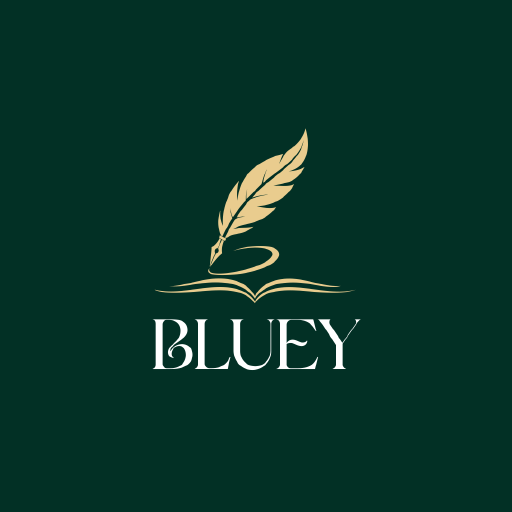
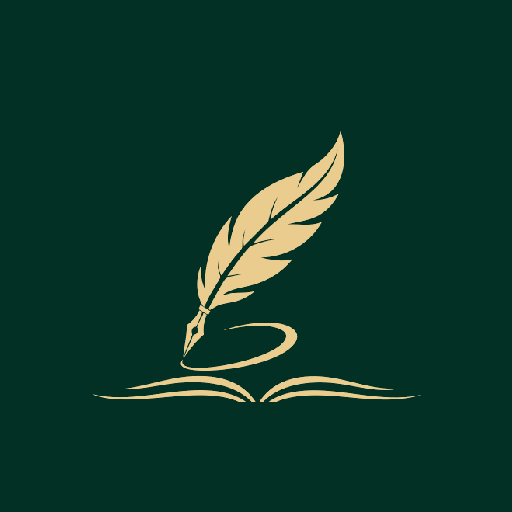
Rebrand Bluey → Elyra
Renamed the app to Elyra: APP_NAME, PWA manifest + app.json name, page title/OG
(via inject-web-head), notification copy, and on-screen text. New text-less quill
+ book mark (assets/images/elyra-mark.png, cropped from the old logo) used by
BrandLogo + the login intro, paired with a new elegant serif Wordmark component
shown on the login, home header, and desktop top-nav. Regenerated the app/tab
icons (icon-192/512, apple-touch) with the Elyra mark on the green field. Domain
stays blueyclub.com for now.

Changed region(s): [[0.1875, 0.25, 0.8125, 0.7812]]

diff --git a/src/app/auth.tsx b/src/app/auth.tsx
@@ -20,6 +20,7 @@ import { BrandLogo } from '@/components/brand-logo';
 import { LoginIntro } from '@/components/login-intro';
 import { Reveal } from '@/components/reveal';
 import { ThemedText } from '@/components/themed-text';
+import { Wordmark } from '@/components/wordmark';
 import { ThemedView } from '@/components/themed-view';
 import { APP_TAGLINE } from '@/config/app';
 import { Spacing } from '@/constants/theme';
@@ -129,13 +130,14 @@ export default function AuthScreen() {
           showsVerticalScrollIndicator={false}>
           <View style={[styles.card, glassWeb]}>
             <Reveal active={!intro} delay={0} style={styles.group}>
-              <BrandLogo bare size={96} style={styles.logo} />
+              <BrandLogo bare size={72} style={styles.logo} />
+              <Wordmark size={34} color="#FFFFFF" style={styles.wordmark} />
               <ThemedText style={styles.title}>
                 {isSignup ? 'Create your\naccount' : 'Welcome\nback'}
               </ThemedText>
               <ThemedText style={styles.subtitle}>
                 {isSignup
-                  ? 'Join Bluey to save your library and read across devices.'
+                  ? 'Join Elyra to save your library and read across devices.'
                   : APP_TAGLINE}
               </ThemedText>
             </Reveal>
@@ -299,6 +301,7 @@ const styles = StyleSheet.create({
     shadowOffset: { width: 0, height: 18 },
   },
   logo: { marginBottom: Spacing.one },
+  wordmark: { marginTop: -Spacing.two },
   group: { gap: Spacing.three },
   title: { color: '#FFFFFF', fontSize: 40, lineHeight: 44, fontWeight: '800', letterSpacing: -1 },
   subtitle: {

diff --git a/src/app/(tabs)/index.tsx b/src/app/(tabs)/index.tsx
@@ -7,6 +7,7 @@ import { FeaturedHero } from '@/components/featured-hero';
 import { SectionHeader } from '@/components/section-header';
 import { ShelfCard } from '@/components/story-card';
 import { ThemedText } from '@/components/themed-text';
+import { Wordmark } from '@/components/wordmark';
 import { ThemedView } from '@/components/themed-view';
 import { WriteFab } from '@/components/write-fab';
 import { APP_TAGLINE } from '@/config/app';
@@ -52,7 +53,10 @@ export default function HomeScreen() {
       <SafeAreaView edges={['top']} style={styles.safeArea}>
         <ScrollView contentContainerStyle={styles.content} showsVerticalScrollIndicator={false}>
           <View style={styles.header}>
-            <BrandLogo bare size={76} />
+            <View style={styles.brandRow}>
+              <BrandLogo bare size={52} />
+              <Wordmark size={34} />
+            </View>
             <ThemedText type="small" themeColor="textSecondary">
               {APP_TAGLINE}
             </ThemedText>
@@ -73,7 +77,7 @@ export default function HomeScreen() {
 
           {more.length > 0 && (
             <View style={styles.section}>
-              <SectionHeader title="More stories" subtitle="Fresh from Bluey" />
+              <SectionHeader title="More stories" subtitle="Fresh from Elyra" />
               <Shelf stories={more} />
             </View>
           )}
@@ -111,6 +115,7 @@ const styles = StyleSheet.create({
   header: {
     gap: Spacing.two,
   },
+  brandRow: { flexDirection: 'row', alignItems: 'center', gap: Spacing.two },
   section: {
     gap: 0,
   },

diff --git a/src/components/login-intro.tsx b/src/components/login-intro.tsx
@@ -3,6 +3,8 @@ import { LinearGradient } from 'expo-linear-gradient';
 import { useEffect, useRef } from 'react';
 import { Animated, Platform, Pressable, StyleSheet, View } from 'react-native';
 
+import { Wordmark } from '@/components/wordmark';
+
 /**
  * A short cinematic "starter" for the login (inspired by kaedano.app):
  *  1. the Bluey logo glows to life while a gold beam sweeps over it (like
@@ -13,7 +15,7 @@ import { Animated, Platform, Pressable, StyleSheet, View } from 'react-native';
  * Tap anywhere to skip. Calls `onDone` once it finishes fading.
  */
 const NATIVE = Platform.OS !== 'web';
-const LOGO = require('@/assets/images/bluey-logo-transparent.png');
+const LOGO = require('@/assets/images/elyra-mark.png');
 
 export function LoginIntro({ onDone, covers = [] }: { onDone: () => void; covers?: string[] }) {
   const scan = useRef(new Animated.Value(0)).current; // 0..1 logo scan
@@ -91,6 +93,11 @@ export function LoginIntro({ onDone, covers = [] }: { onDone: () => void; covers
             style={StyleSheet.absoluteFill}
           />
         </Animated.View>
+      </Animated.View>
+
+      <Animated.View
+        style={{ marginTop: 6, opacity: scan.interpolate({ inputRange: [0.45, 1], outputRange: [0, 1] }) }}>
+        <Wordmark size={32} color="#FFFFFF" />
       </Animated.View>
 
       {shown.length > 0 && (

diff --git a/src/components/brand-logo.tsx b/src/components/brand-logo.tsx
@@ -20,7 +20,7 @@ export function BrandLogo({
     return (
       <View style={[{ width: size, height: size }, style]}>
         <Image
-          source={require('@/assets/images/bluey-logo-transparent.png')}
+          source={require('@/assets/images/elyra-mark.png')}
           style={StyleSheet.absoluteFill}
           contentFit="contain"
         />
@@ -31,8 +31,8 @@ export function BrandLogo({
     <View
       style={[styles.badge, { width: size, height: size, borderRadius: size * 0.22 }, style]}>
       <Image
-        source={require('@/assets/images/bluey-logo-mark.png')}
-        style={StyleSheet.absoluteFill}
+        source={require('@/assets/images/elyra-mark.png')}
+        style={styles.badgeImg}
         contentFit="contain"
       />
     </View>
@@ -42,8 +42,8 @@ export function BrandLogo({
 const styles = StyleSheet.create({
   badge: {
     overflow: 'hidden',
-    // Matches the logo artwork's forest-green field so any letterboxing from
-    // `contain` blends seamlessly with the image.
+    // Deep forest-green field behind the gold quill mark.
     backgroundColor: '#023025',
   },
+  badgeImg: { position: 'absolute', top: '15%', left: '15%', right: '15%', bottom: '15%' },
 });

diff --git a/src/components/top-nav.tsx b/src/components/top-nav.tsx
@@ -4,6 +4,7 @@ import { Pressable, StyleSheet, View } from 'react-native';
 
 import { BrandLogo } from '@/components/brand-logo';
 import { ThemedText } from '@/components/themed-text';
+import { Wordmark } from '@/components/wordmark';
 import { MaxContentWidth, Spacing } from '@/constants/theme';
 import { useTheme } from '@/hooks/use-theme';
 
@@ -30,7 +31,10 @@ export function TopNav() {
         { backgroundColor: theme.background, borderBottomColor: theme.backgroundSelected },
       ]}>
       <View style={styles.inner}>
-        <BrandLogo bare size={34} />
+        <View style={styles.brand}>
+          <BrandLogo bare size={30} />
+          <Wordmark size={22} />
+        </View>
         <View style={styles.links}>
           {LINKS.map((l) => {
             const active = pathname === l.href;
@@ -68,6 +72,7 @@ const styles = StyleSheet.create({
     justifyContent: 'space-between',
     paddingHorizontal: Spacing.four,
   },
+  brand: { flexDirection: 'row', alignItems: 'center', gap: Spacing.two },
   links: { flexDirection: 'row', alignItems: 'center', gap: Spacing.two },
   link: {
     flexDirection: 'row',

diff --git a/src/components/wordmark.tsx b/src/components/wordmark.tsx
@@ -1,0 +1,36 @@
+import { Platform, StyleSheet, Text, type StyleProp, type TextStyle } from 'react-native';
+
+import { APP_NAME } from '@/config/app';
+import { Fonts } from '@/constants/theme';
+import { useTheme } from '@/hooks/use-theme';
+
+/** The app name set as an elegant serif wordmark (pairs with the quill icon). */
+export function Wordmark({
+  size = 26,
+  color,
+  style,
+}: {
+  size?: number;
+  color?: string;
+  style?: StyleProp<TextStyle>;
+}) {
+  const theme = useTheme();
+  return (
+    <Text
+      style={[
+        styles.mark,
+        { fontSize: size, lineHeight: Math.round(size * 1.1), color: color ?? theme.text },
+        style,
+      ]}>
+      {APP_NAME}
+    </Text>
+  );
+}
+
+const styles = StyleSheet.create({
+  mark: {
+    fontFamily: Platform.OS === 'web' ? 'Georgia, "Times New Roman", serif' : Fonts?.serif,
+    fontWeight: '700',
+    letterSpacing: 1.5,
+  },
+});

diff --git a/public/sw.js b/public/sw.js
@@ -45,8 +45,8 @@ self.addEventListener('fetch', (event) => {
 self.addEventListener('push', (event) => {
   event.waitUntil(
     (async () => {
-      let title = 'Bluey';
-      let body = 'Something new to read on Bluey.';
+      let title = 'Elyra';
+      let body = 'Something new to read on Elyra.';
       let url = '/';
       try {
         const res = await fetch('/api/push-latest', { cache: 'no-store' });

diff --git a/src/app/story/[id].tsx b/src/app/story/[id].tsx
@@ -77,7 +77,7 @@ export default function StoryDetailScreen() {
     setNotifyBusy(true);
     setNotifyMsg(null);
     const r = await broadcastPush({
-      title: `📖 New on Bluey: ${story.title}`,
+      title: `📖 New on Elyra: ${story.title}`,
       body: `${story.author.name} just posted — tap to read.`,
       url: `/story/${story.id}`,
     });

diff --git a/src/config/app.ts b/src/config/app.ts
@@ -2,7 +2,7 @@
  * Central place for product/branding/pricing values so they're easy to change
  * in one spot (and so the Stripe phase has a single source of truth for price).
  */
-export const APP_NAME = 'Bluey';
+export const APP_NAME = 'Elyra';
 export const APP_TAGLINE = 'Stories worth staying up for.';
 
 /**
